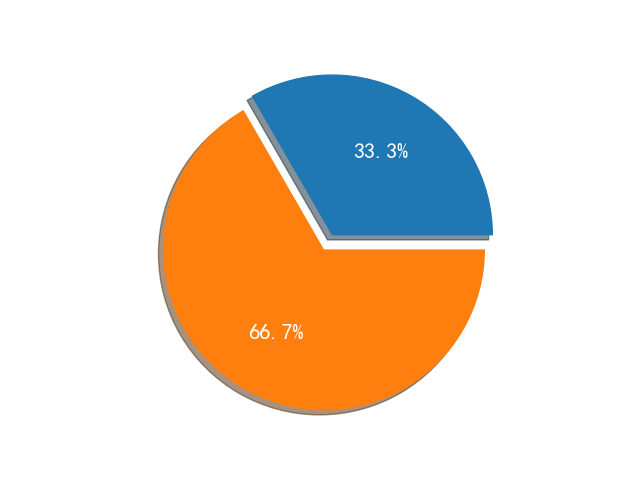
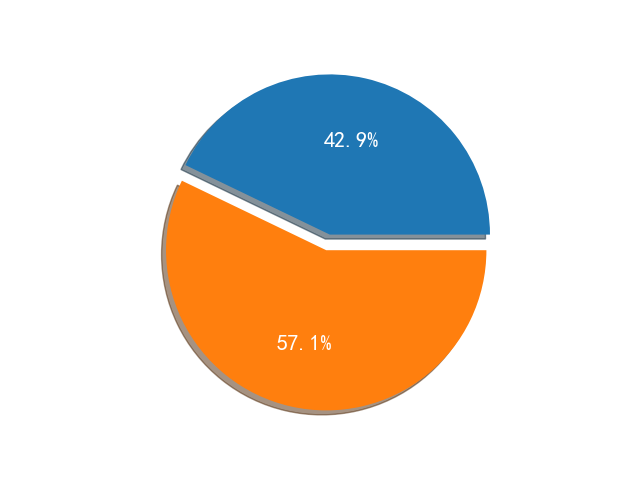
Finished Version

diff --git a/templates/admin.html b/templates/admin.html
@@ -2,7 +2,7 @@
 <html lang="en">
 <head>
     <meta charset="UTF-8">
-    <title>学生信息管理</title>
+    <title>Student Information Management</title>
     <link rel="stylesheet" href="../static/css/bootstrap.css">
 </head>
 
@@ -12,13 +12,13 @@
         <div class="col">
             <ul class="nav flex-column " style="width: 120px; margin: 40px auto">
                 <li class="nav-item">
-                    <a class="nav-link active" aria-current="page" href="/admin">管理功能</a>
+                    <a class="nav-link active" aria-current="page" href="/admin">Management Function</a>
                 </li>
                 <li class="nav-item">
-                    <a class="nav-link" href="/home">可视化功能</a>
+                    <a class="nav-link" href="/home">Visible Function</a>
                 </li>
                 <li class="nav-item">
-                    <a class="nav-link" href="/login" >退出登录</a>
+                    <a class="nav-link" href="/login" >Exit</a>
                 </li>
             </ul>
         </div>
@@ -29,36 +29,36 @@
                     <th scope="col">
                         <form action="/search" class="row g-3" method="post">
                             <div class="col-auto">
-                                <label class="visually-hidden">学号</label>
-                                <input type="text" class="form-control" name="id" placeholder="学号">
+                                <label class="visually-hidden">StudentId</label>
+                                <input type="text" class="form-control" name="id" placeholder="studentId">
                             </div>
                             <div class="col-auto">
-                                <label class="visually-hidden">姓名</label>
-                                <input type="text" class="form-control" name="name" placeholder="姓名">
+                                <label class="visually-hidden">Name</label>
+                                <input type="text" class="form-control" name="name" placeholder="name">
                             </div>
                             <div class="col-auto">
-                                <button type="submit" class="btn btn-outline-success mb-3">查找</button>
+                                <button type="submit" class="btn btn-outline-success mb-3">Search</button>
                             </div>
                         </form>
                     </th>
                     <th scope="col">
                         <form action="/add" class="row g-3">
                             <div class="col-auto">
-                                <button type="submit" class="btn btn-outline-info mb-3">添加学生</button>
+                                <button type="submit" class="btn btn-outline-info mb-3">Add</button>
                             </div>
                         </form>
                     </th>
                     <th scope="col">
                         <form action="/sort" class="row g-3">
                             <div class="col-auto">
-                                <button type="submit" class="btn btn-outline-info mb-3">排序</button>
+                                <button type="submit" class="btn btn-outline-info mb-3">Sort</button>
                             </div>
                         </form>
                     </th>
                     <th scope="col">
                         <form action="/admin" class="row g-3">
                             <div class="col-auto">
-                                <button type="submit" class="btn btn-outline-info mb-3">返回</button>
+                                <button type="submit" class="btn btn-outline-info mb-3">Back</button>
                             </div>
                         </form>
                     </th>
@@ -70,11 +70,11 @@
                             <table class="table table-hover" style="width: 900px; margin: 0 auto">
                                 <thead>
                                 <tr>
-                                    <th scope="col">学号</th>
-                                    <th scope="col">姓名</th>
-                                    <th scope="col">性别</th>
-                                    <th scope="col">年龄</th>
-                                    <th scope="col">操作</th>
+                                    <th scope="col">StudentId</th>
+                                    <th scope="col">Name</th>
+                                    <th scope="col">Gender</th>
+                                    <th scope="col">Age</th>
+                                    <th scope="col">Manipulate</th>
                                 </tr>
                                 </thead>
                                 <tbody>
@@ -93,12 +93,12 @@
                                         <td>
                                             <form action="/delete/{{ stu[0] }}" method="get"
                                                   style="display: inline-block;">
-                                                <button type="submit" class="btn btn-outline-danger btn-sm">删除
+                                                <button type="submit" class="btn btn-outline-danger btn-sm">Delete
                                                 </button>
                                             </form>
                                             <form action="/modify/{{ stu[0] }}" method="get"
                                                   style="display: inline-block;">
-                                                <button type="submit" class="btn btn-outline-warning btn-sm">修改
+                                                <button type="submit" class="btn btn-outline-warning btn-sm">Modify
                                                 </button>
                                             </form>
                                         </td>

diff --git a/templates/add.html b/templates/add.html
@@ -1,31 +1,34 @@
 <!DOCTYPE html>
 <html lang="en">
-<html>
 <head>
     <meta charset="utf-8"/>
-    <title>新增数据</title>
+    <title>Add</title>
     <link rel="stylesheet" type="text/css" href="../static/css/bootstrap.css"/>
 </head>
 <body>
 <form action="/add" style="width: 400px; margin: 100px auto" method="post">
     <div class="mb-3">
-        <label for="id" class="form-label">学号</label>
-        <input type="text" class="form-control" id="id" aria-describedby="emailHelp" name="id">
+        <label for="id" class="form-label">StudentId</label>
+        <input type="text" class="form-control" id="id" name="id" required>
     </div>
     <div class="mb-3">
-        <label for="name" class="form-label">姓名</label>
-        <input type="text" class="form-control" id="name" name="name">
+        <label for="name" class="form-label">Name</label>
+        <input type="text" class="form-control" id="name" name="name" required>
     </div>
     <div class="mb-3">
-        <label for="english" class="form-label">性别</label>
-        <input type="text" class="form-control" id="sex" name="sex">
+        <label for="gender" class="form-label">Gender</label>
+        <!-- 修改为下拉框 -->
+        <select class="form-control" id="gender" name="gender" required>
+            <option value="">Select Gender</option>
+            <option value="male">Male</option>
+            <option value="female">Female</option>
+        </select>
     </div>
     <div class="mb-3">
-        <label for="python" class="form-label">年龄</label>
-        <input type="text" class="form-control" id="age" name="age">
+        <label for="age" class="form-label">Age</label>
+        <input type="text" class="form-control" id="age" name="age" required>
     </div>
-    <button type="submit" class="btn btn-primary">添加</button>
+    <button type="submit" class="btn btn-primary">Add</button>
 </form>
 </body>
 </html>
-

diff --git a/templates/modify.html b/templates/modify.html
@@ -1,33 +1,33 @@
 <!DOCTYPE html>
 <html lang="en">
-<html>
 <head>
     <meta charset="utf-8"/>
-    <title>修改数据</title>
+    <title>Modify</title>
     <link rel="stylesheet" type="text/css" href="../static/css/bootstrap.css"/>
 </head>
 <body>
 <form action="/modify/{{ id }}" style="width: 400px; margin: 100px auto" method="post">
     <div class="mb-3">
-        <label for="id" class="form-label">学号</label>
-        <input type="text" class="form-control" id="id" name="id" value="{{ id }}"readonly>
+        <label for="id" class="form-label">StudentId</label>
+        <input type="text" class="form-control" id="id" name="id" value="{{ id }}" readonly>
     </div>
     <div class="mb-3">
-        <label for="name" class="form-label">姓名</label>
+        <label for="name" class="form-label">Name</label>
         <input type="text" class="form-control" id="name" name="name" value="{{ name }}">
     </div>
     <div class="mb-3">
-        <label for="english" class="form-label">性别</label>
-        <input type="text" class="form-control" id="sex" name="sex" value="{{ sex }}">
+        <label for="gender" class="form-label">Gender</label>
+        <!-- 修改为下拉框 -->
+        <select class="form-control" id="gender" name="gender">
+            <option value="male" {% if gender == 'male' %}selected{% endif %}>Male</option>
+            <option value="female" {% if gender == 'female' %}selected{% endif %}>Female</option>
+        </select>
     </div>
     <div class="mb-3">
-        <label for="python" class="form-label">年龄</label>
+        <label for="age" class="form-label">Age</label>
         <input type="text" class="form-control" id="age" name="age" value="{{ age }}">
     </div>
-
-    <button type="submit" class="btn btn-primary">修改</button>
+    <button type="submit" class="btn btn-primary">Modify</button>
 </form>
-
 </body>
 </html>
-

diff --git a/templates/home.html b/templates/home.html
@@ -2,7 +2,7 @@
 <html>
 <head>
     <meta charset="UTF-8">
-    <title>性别比例饼图</title>
+    <title>Gender Chart</title>
     <link rel="stylesheet" href="../static/css/bootstrap.css">
 </head>
 <body>
@@ -11,19 +11,19 @@
         <div class="col">
             <ul class="nav flex-column" style="width: 120px; margin: 40px auto">
                 <li class="nav-item">
-                    <a class="nav-link active" aria-current="page" href="/admin">管理功能</a>
+                    <a class="nav-link active" aria-current="page" href="/admin">Management Function</a>
                 </li>
                 <li class="nav-item">
-                    <a class="nav-link" href="/home">可视化功能</a>
+                    <a class="nav-link" href="/home">Visible Chart</a>
                 </li>
                 <li class="nav-item">
-                    <a class="nav-link" href="/login">退出登录</a>
+                    <a class="nav-link" href="/login">Exit</a>
                 </li>
             </ul>
         </div>
         <div class="col">
             <div class="text-center" style="width: 933px; margin: 15px auto">
-                <h1>性别比例饼图</h1>
+                <h1>Gender Chart</h1>
                 <img src="{{ chart_path }}" alt="Gender Chart">
             </div>
         </div>

diff --git a/templates/login.html b/templates/login.html
@@ -19,8 +19,8 @@
             <i class="iconfont">&#xe605;</i>
             <input name="password" type="password" class="loginpwd" value="" placeholder="UserPassword"/>
         </div>
-        <button type="submit" class="btn btn-primary">登录</button>
-        <a href="/register">去注册</a>
+        <button type="submit" class="btn btn-primary">Login</button>
+        <a href="/register">Sign Up</a>
     </div>
 </form>
 </body>

diff --git a/templates/register.html b/templates/register.html
@@ -19,8 +19,8 @@
             <i class="iconfont">&#xe605;</i>
             <input name="password" type="password" class="loginpwd" value="" placeholder="UserPassword"/>
         </div>
-        <button type="submit" class="btn btn-primary">注册</button>
-        <a href="/login">去登录</a>
+        <button type="submit" class="btn btn-primary">Sign Up</button>
+        <a href="/login">Login</a>
     </div>
 </form>
 </body>

diff --git a/manage.py b/manage.py
@@ -46,12 +46,12 @@ def user_register():
         username = request.form.get('username')
         password = request.form.get('password')
         if username == '' or password == '':
-            js_code = "<script>alert('请输入账号密码！'); history.back();</script>"
+            js_code = "<script>alert('ENter Username & Password！'); history.back();</script>"
             return js_code
 
         user = get_user_by_username(username)
         if user:
-            js_code = "<script>alert('用户已存在！'); history.back();</script>"
+            js_code = "<script>alert('User already exists！'); history.back();</script>"
             return js_code
         else:
             register_db(username, password)
@@ -86,14 +86,14 @@ def user_login():
         password = request.form.get('password')
 
         if not username or not password:
-            js_code = "<script>alert('请输入账号密码！'); history.back();</script>"
+            js_code = "<script>alert('Enter Username & Password！'); history.back();</script>"
             return js_code
 
         user = get_user_by_username(username)
         if user and user['password'] == password:
             return redirect(url_for('admin'))
         else:
-            js_code = "<script>alert('登录失败！'); history.back();</script>"
+            js_code = "<script>alert('Login Failed！'); history.back();</script>"
             return js_code
 
 
@@ -107,27 +107,35 @@ def admin():
 def home():
     db = pymysql.connect(host=dbhost, user=dbuser, password=dbpass, database=dbname)
     cursor = db.cursor()
-    query = "select sex, count(*) from student group by sex"
+    query = "select gender, count(*) from student group by gender"
     cursor.execute(query)
     data = cursor.fetchall()
-    # 将查询结果转换为列表形式
     gender_data = [{'gender': row[0], 'count': row[1]} for row in data]
     cursor.close()
     db.close()
+
     # 提取性别列表和数量列表
     genders = [row['gender'] for row in gender_data]
     counts = [row['count'] for row in gender_data]
     explode = [0.1, 0]
+
+    # 清除旧图
+    plt.clf()
+
     # 创建饼图
     matplotlib.rcParams['font.sans-serif'] = ['SimHei']
     plt.pie(counts, labels=genders, autopct='%1.1f%%', explode=explode, shadow=True,
             textprops={'fontsize': 16, 'color': 'white'})
     plt.axis('equal')
+
     # 保存饼图为图片
     chart_path = 'static/chart.png'
     plt.savefig(chart_path, transparent=True)
+    plt.close()  # 关闭绘图
+
     # 渲染模板并传递饼图路径
     return render_template('home.html', chart_path=chart_path)
+
 
 
 @app.route('/add', methods=['GET', 'POST'])  # 添加学生
@@ -137,24 +145,24 @@ def add():
     else:
         id = request.form.get('id')
         name = request.form.get('name')
-        sex = request.form.get('sex')
+        gender = request.form.get('gender')
         age = request.form.get('age')
         stu = getStudent(id)
-        if id == "" or name == "" or sex == "" or age == "":
-            js_code = "<script>alert('请填写完整信息！'); history.back();</script>"
+        if id == "" or name == "" or gender == "" or age == "":
+            js_code = "<script>alert('Enter complete information！'); history.back();</script>"
             return js_code
         elif stu:
-            js_code = "<script>alert('学生已存在！'); history.back();</script>"
+            js_code = "<script>alert('Student Already Exists！'); history.back();</script>"
             return js_code
         else:
-            addstudent(id, name, sex, age)
+            addstudent(id, name, gender, age)
             return redirect(url_for('admin'))
 
 
-def addstudent(id, name, sex, age):
+def addstudent(id, name, gender, age):
     db = pymysql.connect(host=dbhost, user=dbuser, password=dbpass, database=dbname)
     cursor = db.cursor()
-    sql = "insert into student (id,name,sex,age) values ('" + id + "','" + name + "','" + sex + "','" + age + "')"
+    sql = "insert into student (id,name,gender,age) values ('" + id + "','" + name + "','" + gender + "','" + age + "')"
     cursor.execute(sql)
     db.commit()
     db.close()
@@ -187,7 +195,7 @@ def search():
         students1 = searchstu1(id)
         return render_template('admin.html', student=students1)
     elif request.form.get('id') == '' and request.form.get('name') == '':
-        js_code = "<script>alert('请输入查询内容！'); history.back();</script>"
+        js_code = "<script>alert('Enter Search Content！'); history.back();</script>"
         return js_code
 
 
@@ -222,26 +230,26 @@ def modify(id):
         editStudent = getStudent(id)
         id = editStudent[0]
         name = editStudent[1]
-        sex = editStudent[2]
+        gender = editStudent[2]
         age = editStudent[3]
-        return render_template('modify.html', students=students, id=id, name=name, sex=sex, age=age)
+        return render_template('modify.html', students=students, id=id, name=name, gender=gender, age=age)
     else:
         id = request.form.get('id')
         name = request.form.get('name')
-        sex = request.form.get('sex')
+        gender = request.form.get('gender')
         age = request.form.get('age')
-        if name == '' or sex == '' or age == '':
-            js_code = "<script>alert('请输入修改信息！'); history.back();</script>"
+        if name == '' or gender == '' or age == '':
+            js_code = "<script>alert('Enter Modified Information！'); history.back();</script>"
             return js_code
         else:
-            updateStudent(id, name, sex, age)
+            updateStudent(id, name, gender, age)
             return redirect(url_for('admin'))
 
 
-def updateStudent(id, name, sex, age):
+def updateStudent(id, name, gender, age):
     db = pymysql.connect(host=dbhost, user=dbuser, password=dbpass, database=dbname)
     cursor = db.cursor()
-    sql = "update student set name='%s',sex='%s', age='%s' WHERE id=%s" % (name, sex, age, id)
+    sql = "update student set name='%s',gender='%s', age='%s' WHERE id=%s" % (name, gender, age, id)
     cursor.execute(sql)
     print(sql)
     db.commit()
